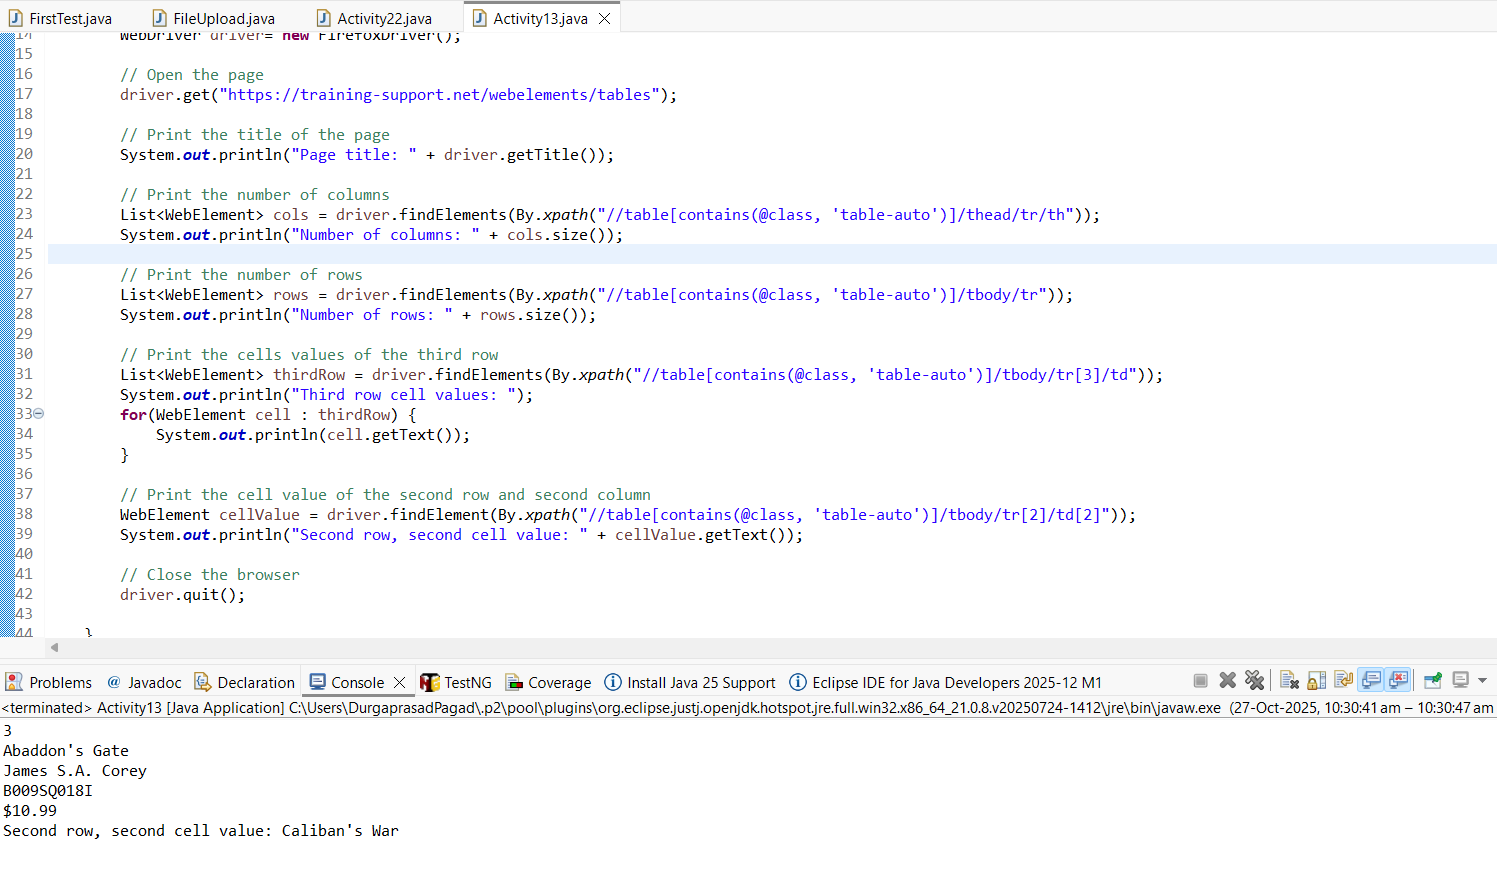
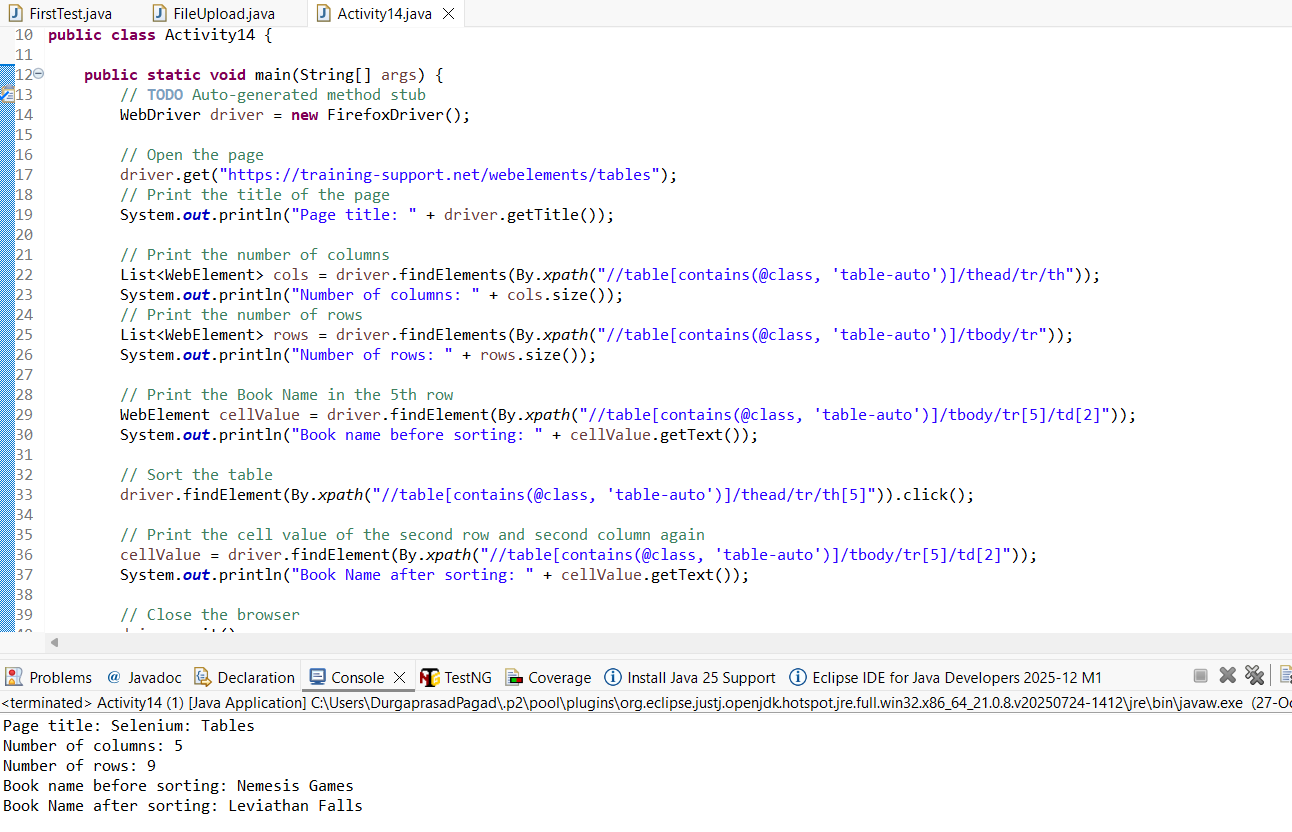
Activity14 - Tables2

diff --git a/Selenium/Activities/Activity14.java b/Selenium/Activities/Activity14.java
@@ -1,0 +1,44 @@
+package activities;
+
+import java.util.List;
+
+import org.openqa.selenium.By;
+import org.openqa.selenium.WebDriver;
+import org.openqa.selenium.WebElement;
+import org.openqa.selenium.firefox.FirefoxDriver;
+
+public class Activity14 {
+
+	public static void main(String[] args) {
+		// TODO Auto-generated method stub
+		WebDriver driver = new FirefoxDriver();
+
+        // Open the page
+        driver.get("https://training-support.net/webelements/tables");
+        // Print the title of the page
+        System.out.println("Page title: " + driver.getTitle());
+
+        // Print the number of columns
+        List<WebElement> cols = driver.findElements(By.xpath("//table[contains(@class, 'table-auto')]/thead/tr/th"));
+        System.out.println("Number of columns: " + cols.size());
+        // Print the number of rows
+        List<WebElement> rows = driver.findElements(By.xpath("//table[contains(@class, 'table-auto')]/tbody/tr"));
+        System.out.println("Number of rows: " + rows.size());
+
+        // Print the Book Name in the 5th row
+        WebElement cellValue = driver.findElement(By.xpath("//table[contains(@class, 'table-auto')]/tbody/tr[5]/td[2]"));
+        System.out.println("Book name before sorting: " + cellValue.getText());
+
+        // Sort the table
+        driver.findElement(By.xpath("//table[contains(@class, 'table-auto')]/thead/tr/th[5]")).click();
+
+        // Print the cell value of the second row and second column again
+        cellValue = driver.findElement(By.xpath("//table[contains(@class, 'table-auto')]/tbody/tr[5]/td[2]"));
+        System.out.println("Book Name after sorting: " + cellValue.getText());
+
+        // Close the browser
+        driver.quit();
+
+	}
+
+}
